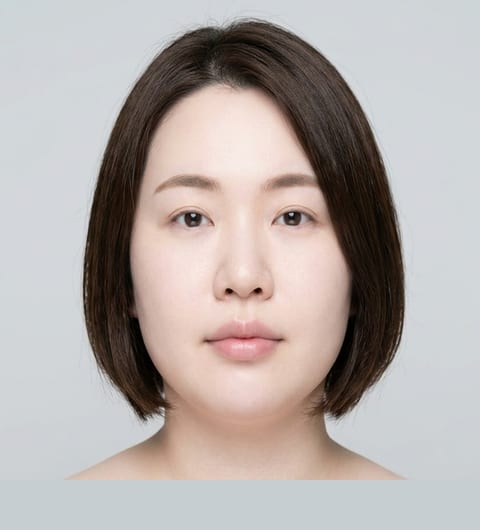
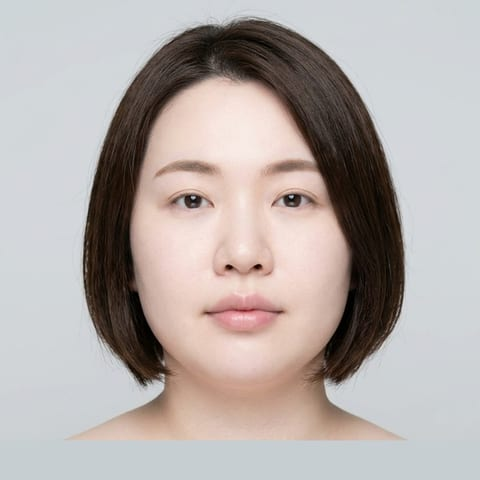
切り替えの遅延と、正方形にならない切り出しを直す
■ 選んだあと、切り替わる前の顔で判断できてしまう問題
次の顔を読み込み終える前に表示を戻していたため、新しい画像が
届くまでブラウザが古い顔を描き続けていた。
- 次のペアを「選んだ演出(420ms)の間」に決めて先に読み込むようにした
- 読み込みが終わるまでは両方とも隠し、その間は操作を受け付けない
- すぐ切り替えられないときだけ、少し遅らせて読み込み表示を出す

先読みが効くため実測では押してから 437ms(中央値)で切り替わり、
両方が隠れている時間は 2ms で、読み込み表示は出ない。
回線が遅いときだけ読み込み表示になることを、画像を 1.2 秒遅らせて確認した。

■ 画像が浮いたり横に狭くなる問題
sharp は extend を resize のあとに適用するため、切り出しの工程に
resize をつなぐと、埋めた余白の分だけ縦に伸びて正方形でなくなっていた
(480x572 など 15 枚)。正方形の枠に収める際に縦横が歪み、背景の帯も入っていた。
工程を分け、box×box になっているか検査してから縮小するようにした。

元画像から 27 枚すべて作り直した。実測値は 405 項目すべて一致するため、
診断結果に影響はない(表示だけの問題だった)。

Claude-Session: https://claude.ai/code/session_012j7ExUWE5BhnoC3YJwj22k

diff --git a/src/app.js b/src/app.js
@@ -25,6 +25,7 @@ const state = {
   round: 0,          // 答えた回数（スキップは数えない）
   shown: 0,          // 出したペアの数（無限に続かないようにするため）
   pair: null,
+  next: null,        // 先に決めて読み込んでおいた次のペア
   history: [],       // { a, b, winner, skipped }
   stats: newStats(),
   model: null,
@@ -130,63 +131,97 @@ function startSession() {
   state.history = [];
   state.stats = newStats();
   state.model = null;
+  state.next = null;
   show('screen-play');
   nextRound();
 }
 
-function nextRound() {
-  if (state.round >= state.rounds) return finishSession();
-  // スキップが続いても終わらなくならないように上限を設ける
-  if (state.shown >= state.rounds * 3) return finishSession();
-  state.shown++;
-  // 序盤はモデルが当てにならないので、推定を使い始めるのは数回たってから
+// 選んだあとの演出の長さ。この間に次の顔を読み込む。
+const PICK_MS = 420;
+
+// 次に出すペアを決める。序盤はモデルが当てにならないので、
+// 推定を使い始めるのは数回たってから。
+function decidePair() {
   const model = state.history.length >= 6 ? state.model : null;
-  state.pair = choosePair(state.faces, model, state.stats);
-  renderPair();
+  return choosePair(state.faces, model, state.stats);
 }
 
-function renderPair() {
+// 画像が実際に表示できる状態になるまで待つ。読み込み済みならすぐ返る。
+function loadFace(f) {
+  const img = new Image();
+  img.src = f.src;
+  if (img.decode) return img.decode().catch(() => {});
+  return img.complete ? Promise.resolve() : new Promise((done) => { img.onload = img.onerror = done; });
+}
+
+// 次のペアを決めて先に読み込んでおく。残り回数が尽きていれば決めない。
+function prepareNext() {
+  // スキップが続いても終わらなくならないように上限を設ける
+  if (state.round >= state.rounds || state.shown >= state.rounds * 3) {
+    state.next = null;
+    return Promise.resolve();
+  }
+  state.next = decidePair();
+  return Promise.all(state.next.map(loadFace));
+}
+
+function nextRound() {
+  if (!state.next) prepareNext();
+  if (!state.next) return finishSession();
+  state.shown++;
+  state.pair = state.next;
+  state.next = null;
+  return showPair();
+}
+
+async function showPair() {
   const [a, b] = state.pair;
-  $('img-0').src = a.src;
-  $('img-1').src = b.src;
-  document.querySelectorAll('.face-card').forEach((c) => {
-    c.classList.remove('is-picked', 'is-dropped');
-    // 入場アニメーションをやり直させる
-    c.style.animation = 'none'; void c.offsetWidth; c.style.animation = '';
-  });
+  const arena = $('arena');
+  // 読み込みが終わるまで古い顔を残さない。残したままだと、
+  // 切り替わる前の顔を見て選んでしまう。
+  // 先読みが効いていればこの状態は1フレームも表示されない。
+  arena.classList.add('is-loading');
+  state.busy = true;
+  const cards = document.querySelectorAll('.face-card');
+  // 選んだあとの見た目を読み込み中まで引きずらないよう、先に戻す
+  cards.forEach((c) => c.classList.remove('is-picked', 'is-dropped'));
   $('round-label').textContent = `${state.round + 1} / ${state.rounds}`;
   $('progress-fill').style.width = `${(state.round / state.rounds) * 100}%`;
   $('btn-undo').disabled = state.history.length === 0;
-  preloadNext();
-}
 
-// 次に出そうな顔を先に読み込んでおき、切り替わりのちらつきを防ぐ
-function preloadNext() {
-  const model = state.history.length >= 6 ? state.model : null;
-  try {
-    const [a, b] = choosePair(state.faces, model, state.stats);
-    [a, b].forEach((f) => { new Image().src = f.src; });
-  } catch { /* プールが小さいときは何もしない */ }
+  const img0 = $('img-0'), img1 = $('img-1');
+  img0.src = a.src;
+  img1.src = b.src;
+  await Promise.all([img0, img1].map((im) => (im.decode ? im.decode().catch(() => {}) : Promise.resolve())));
+
+  // 入場アニメーションをやり直させる
+  cards.forEach((c) => { c.style.animation = 'none'; void c.offsetWidth; c.style.animation = ''; });
+  arena.classList.remove('is-loading');
+  state.busy = false;
 }
 
 function choose(side) {
   if (state.busy || !state.pair) return;
   const [a, b] = state.pair;
-  const win = side === 0 ? a : b, lose = side === 0 ? b : a;
+  const win = side === 0 ? a : b;
   const cards = document.querySelectorAll('.face-card');
   cards[side].classList.add('is-picked');
   cards[1 - side].classList.add('is-dropped');
   state.busy = true;
 
-  setTimeout(() => {
-    state.history.push({ a, b, winner: win.id, skipped: false });
-    updateStats(state.stats, a, b);
-    state.round++;
-    // 選択が増えるたび再推定し、次のペア選びに反映する
-    if (state.history.length >= 6) state.model = fit(comparisons());
+  state.history.push({ a, b, winner: win.id, skipped: false });
+  updateStats(state.stats, a, b);
+  state.round++;
+  // 選択が増えるたび再推定し、次のペア選びに反映する
+  if (state.history.length >= 6) state.model = fit(comparisons());
+
+  // 演出を見せている間に次の顔を読み込む。両方そろってから切り替える。
+  const warm = prepareNext();
+  const anim = new Promise((done) => setTimeout(done, PICK_MS));
+  Promise.all([anim, warm]).then(() => {
     state.busy = false;
     nextRound();
-  }, 420);
+  });
 }
 
 function skip() {
@@ -201,6 +236,7 @@ function skip() {
 }
 
 function undo() {
+  if (state.busy) return;
   const last = state.history.pop();
   if (!last) return;
   if (!last.skipped) state.round = Math.max(0, state.round - 1);
@@ -212,8 +248,9 @@ function undo() {
     else updateStats(state.stats, h.a, h.b);
   }
   state.model = state.history.filter((h) => !h.skipped).length >= 6 ? fit(comparisons()) : null;
+  state.next = null;
   state.pair = [last.a, last.b];
-  renderPair();
+  showPair();
 }
 
 const comparisons = () => state.history.filter((h) => !h.skipped).map((h) => {

diff --git a/styles.css b/styles.css
@@ -193,6 +193,25 @@ code {
 .face-card.is-picked { border-color: var(--accent); transform: scale(.94); }
 .face-card.is-dropped { opacity: .25; transform: scale(.9); }
 
+/* 次の顔がまだ読み込めていない間。古い顔のまま選んでしまわないよう、
+   両方とも隠す。読み込みがすぐ終わるときに点滅して見えないよう、
+   ぐるぐるは少し遅れてから出す。 */
+.arena.is-loading .face-card { pointer-events: none; }
+.arena.is-loading .face-card img,
+.arena.is-loading .vs { visibility: hidden; }
+.arena-loader {
+  position: absolute; inset: 0; z-index: 3;
+  display: flex; align-items: center; justify-content: center; gap: 8px;
+  pointer-events: none; opacity: 0;
+}
+.arena-loader i { width: 11px; height: 11px; border-radius: 50%; background: var(--accent-2); }
+.arena.is-loading .arena-loader { animation: loaderIn .18s .14s both; }
+.arena.is-loading .arena-loader i { animation: loaderDot 1s ease-in-out infinite; }
+.arena.is-loading .arena-loader i:nth-child(2) { animation-delay: .13s; }
+.arena.is-loading .arena-loader i:nth-child(3) { animation-delay: .26s; }
+@keyframes loaderIn { to { opacity: 1; } }
+@keyframes loaderDot { 0%, 100% { transform: translateY(0); opacity: .35; } 50% { transform: translateY(-9px); opacity: 1; } }
+
 /* 選んだときに広がるハート */
 .burst {
   position: absolute; inset: 0; display: grid; place-items: center;

diff --git a/index.html b/index.html
@@ -62,7 +62,7 @@
       </div>
     </header>
 
-    <div class="arena">
+    <div class="arena" id="arena">
       <button class="face-card" data-side="0">
         <img alt="左の顔" id="img-0">
         <span class="burst"></span>
@@ -72,6 +72,7 @@
         <img alt="右の顔" id="img-1">
         <span class="burst"></span>
       </button>
+      <span class="arena-loader" aria-hidden="true"><i></i><i></i><i></i></span>
     </div>
 
     <button id="btn-skip" class="btn btn-ghost btn-block btn-icon"></button>
